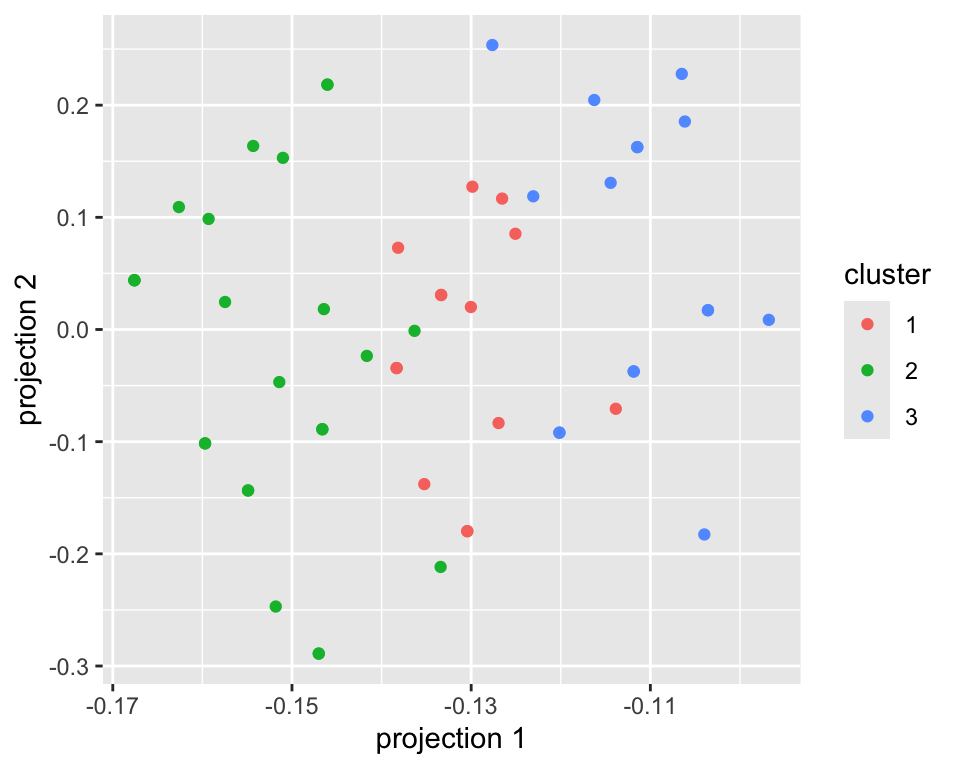
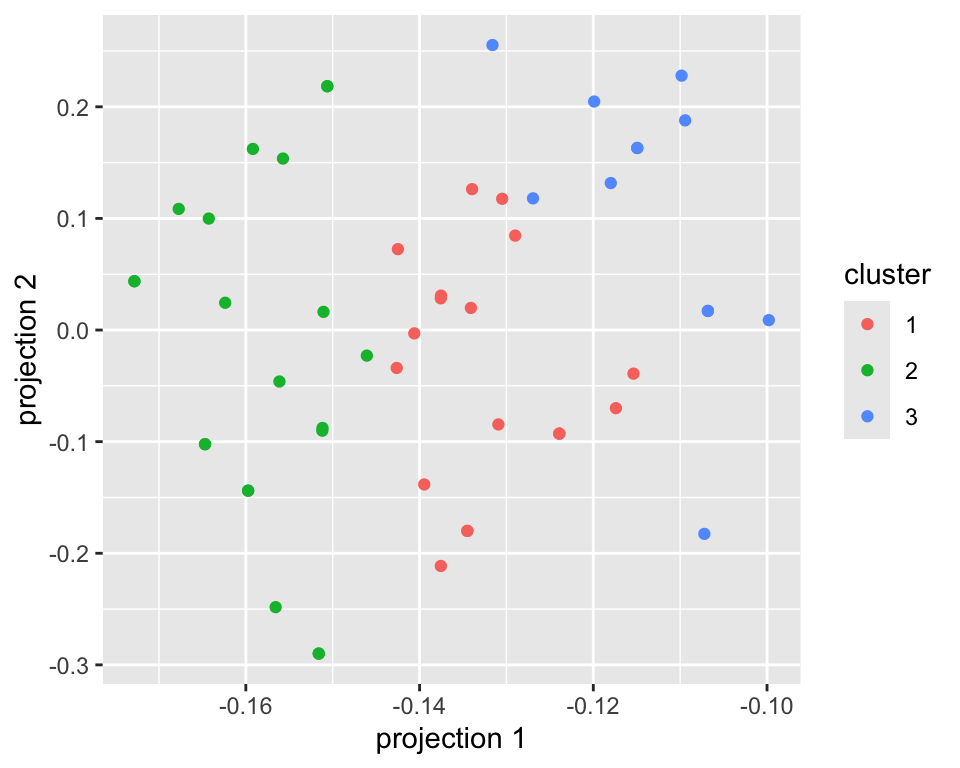
fixes

diff --git a/docs/materials/slides/week2-classdata.html b/docs/materials/slides/week2-classdata.html
@@ -469,21 +469,21 @@ Dr.&nbsp;Coburn
 <tr class="odd">
 <td style="text-align: left;">math.comf</td>
 <td style="text-align: right;">5</td>
-<td style="text-align: right;">4.055556</td>
+<td style="text-align: right;">4.039216</td>
 <td style="text-align: right;">4</td>
 <td style="text-align: right;">3</td>
 </tr>
 <tr class="even">
 <td style="text-align: left;">prog.comf</td>
 <td style="text-align: right;">5</td>
-<td style="text-align: right;">3.870370</td>
+<td style="text-align: right;">3.862745</td>
 <td style="text-align: right;">4</td>
 <td style="text-align: right;">2</td>
 </tr>
 <tr class="odd">
 <td style="text-align: left;">stat.comf</td>
 <td style="text-align: right;">5</td>
-<td style="text-align: right;">4.037037</td>
+<td style="text-align: right;">4.039216</td>
 <td style="text-align: right;">4</td>
 <td style="text-align: right;">2</td>
 </tr>
@@ -511,12 +511,12 @@ Dr.&nbsp;Coburn
 </tr>
 <tr class="even">
 <td style="text-align: left;">math</td>
-<td style="text-align: right;">2.79</td>
+<td style="text-align: right;">2.78</td>
 <td style="text-align: right;">3</td>
 </tr>
 <tr class="odd">
 <td style="text-align: left;">stat</td>
-<td style="text-align: right;">2.84</td>
+<td style="text-align: right;">2.83</td>
 <td style="text-align: right;">3</td>
 </tr>
 </tbody>
@@ -545,15 +545,15 @@ Dr.&nbsp;Coburn
 </tr>
 <tr class="even">
 <td style="text-align: left;">int</td>
-<td style="text-align: right;">25</td>
-<td style="text-align: right;">33</td>
-<td style="text-align: right;">16</td>
+<td style="text-align: right;">24</td>
+<td style="text-align: right;">31</td>
+<td style="text-align: right;">15</td>
 </tr>
 <tr class="odd">
 <td style="text-align: left;">adv</td>
-<td style="text-align: right;">26</td>
-<td style="text-align: right;">20</td>
-<td style="text-align: right;">35</td>
+<td style="text-align: right;">24</td>
+<td style="text-align: right;">19</td>
+<td style="text-align: right;">33</td>
 </tr>
 </tbody>
 </table>
@@ -585,19 +585,19 @@ Dr.&nbsp;Coburn
 <tr class="odd">
 <td style="text-align: left;">[1,2.33]</td>
 <td style="text-align: right;">6</td>
-<td style="text-align: right;">15</td>
+<td style="text-align: right;">14</td>
 <td style="text-align: right;">2</td>
 </tr>
 <tr class="even">
 <td style="text-align: left;">(2.33,2.67]</td>
 <td style="text-align: right;">5</td>
-<td style="text-align: right;">13</td>
+<td style="text-align: right;">12</td>
 <td style="text-align: right;">1</td>
 </tr>
 <tr class="odd">
 <td style="text-align: left;">(2.67,3]</td>
-<td style="text-align: right;">3</td>
-<td style="text-align: right;">9</td>
+<td style="text-align: right;">2</td>
+<td style="text-align: right;">7</td>
 <td style="text-align: right;">0</td>
 </tr>
 </tbody>
@@ -621,24 +621,24 @@ Dr.&nbsp;Coburn
 <tbody>
 <tr class="odd">
 <td style="text-align: left;">[1,2.33]</td>
-<td style="text-align: right;">0.261</td>
-<td style="text-align: right;">0.652</td>
-<td style="text-align: right;">0.087</td>
-<td style="text-align: right;">23</td>
+<td style="text-align: right;">0.273</td>
+<td style="text-align: right;">0.636</td>
+<td style="text-align: right;">0.091</td>
+<td style="text-align: right;">22</td>
 </tr>
 <tr class="even">
 <td style="text-align: left;">(2.33,2.67]</td>
-<td style="text-align: right;">0.263</td>
-<td style="text-align: right;">0.684</td>
-<td style="text-align: right;">0.053</td>
-<td style="text-align: right;">19</td>
+<td style="text-align: right;">0.278</td>
+<td style="text-align: right;">0.667</td>
+<td style="text-align: right;">0.056</td>
+<td style="text-align: right;">18</td>
 </tr>
 <tr class="odd">
 <td style="text-align: left;">(2.67,3]</td>
-<td style="text-align: right;">0.250</td>
-<td style="text-align: right;">0.750</td>
+<td style="text-align: right;">0.222</td>
+<td style="text-align: right;">0.778</td>
 <td style="text-align: right;">0.000</td>
-<td style="text-align: right;">12</td>
+<td style="text-align: right;">9</td>
 </tr>
 </tbody>
 </table>
@@ -689,7 +689,7 @@ Dr.&nbsp;Coburn
 <td style="text-align: right;">2</td>
 <td style="text-align: right;">2</td>
 <td style="text-align: right;">2</td>
-<td style="text-align: right;">11</td>
+<td style="text-align: right;">10</td>
 </tr>
 <tr class="odd">
 <td style="text-align: right;">2</td>
@@ -707,7 +707,7 @@ Dr.&nbsp;Coburn
 <td style="text-align: right;">2</td>
 <td style="text-align: right;">3</td>
 <td style="text-align: right;">3</td>
-<td style="text-align: right;">12</td>
+<td style="text-align: right;">11</td>
 </tr>
 <tr class="even">
 <td style="text-align: right;">3</td>
@@ -725,7 +725,7 @@ Dr.&nbsp;Coburn
 <td style="text-align: right;">3</td>
 <td style="text-align: right;">3</td>
 <td style="text-align: right;">3</td>
-<td style="text-align: right;">12</td>
+<td style="text-align: right;">11</td>
 </tr>
 </tbody>
 </table>
@@ -767,7 +767,7 @@ Dr.&nbsp;Coburn
 <td style="text-align: right;">3</td>
 <td style="text-align: right;">4</td>
 <td style="text-align: right;">3</td>
-<td style="text-align: right;">2</td>
+<td style="text-align: right;">1</td>
 </tr>
 <tr class="odd">
 <td style="text-align: right;">3</td>
@@ -821,7 +821,7 @@ Dr.&nbsp;Coburn
 <td style="text-align: right;">4</td>
 <td style="text-align: right;">4</td>
 <td style="text-align: right;">4</td>
-<td style="text-align: right;">5</td>
+<td style="text-align: right;">4</td>
 </tr>
 <tr class="even">
 <td style="text-align: right;">4</td>
@@ -869,7 +869,7 @@ Dr.&nbsp;Coburn
 <td style="text-align: right;">5</td>
 <td style="text-align: right;">5</td>
 <td style="text-align: right;">5</td>
-<td style="text-align: right;">5</td>
+<td style="text-align: right;">4</td>
 </tr>
 </tbody>
 </table>
@@ -913,33 +913,33 @@ Dr.&nbsp;Coburn
 </thead>
 <tbody>
 <tr class="odd">
-<td style="text-align: right;">2.357</td>
-<td style="text-align: right;">2.643</td>
-<td style="text-align: right;">3.000</td>
-<td style="text-align: right;">3.643</td>
+<td style="text-align: right;">2.278</td>
+<td style="text-align: right;">2.500</td>
+<td style="text-align: right;">2.722</td>
 <td style="text-align: right;">3.500</td>
-<td style="text-align: right;">3.929</td>
-<td style="text-align: right;">14</td>
+<td style="text-align: right;">3.611</td>
+<td style="text-align: right;">4.000</td>
+<td style="text-align: right;">18</td>
 <td style="text-align: left;">1</td>
 </tr>
 <tr class="even">
-<td style="text-align: right;">2.583</td>
-<td style="text-align: right;">2.708</td>
-<td style="text-align: right;">2.875</td>
-<td style="text-align: right;">4.250</td>
-<td style="text-align: right;">4.708</td>
+<td style="text-align: right;">2.619</td>
+<td style="text-align: right;">2.714</td>
+<td style="text-align: right;">2.952</td>
+<td style="text-align: right;">4.286</td>
+<td style="text-align: right;">4.714</td>
 <td style="text-align: right;">4.667</td>
-<td style="text-align: right;">24</td>
+<td style="text-align: right;">21</td>
 <td style="text-align: left;">2</td>
 </tr>
 <tr class="odd">
 <td style="text-align: right;">2.000</td>
-<td style="text-align: right;">1.812</td>
-<td style="text-align: right;">1.812</td>
+<td style="text-align: right;">1.750</td>
+<td style="text-align: right;">1.750</td>
+<td style="text-align: right;">3.667</td>
 <td style="text-align: right;">3.500</td>
-<td style="text-align: right;">3.562</td>
-<td style="text-align: right;">3.188</td>
-<td style="text-align: right;">16</td>
+<td style="text-align: right;">3.000</td>
+<td style="text-align: right;">12</td>
 <td style="text-align: left;">3</td>
 </tr>
 </tbody>
@@ -964,9 +964,9 @@ Dr.&nbsp;Coburn
 <div id="tabset-5-4">
 <p>Based on the centers:</p>
 <ul>
-<li class="fragment"><p>Cluster 1: advanced proficiency, very comfortable</p></li>
-<li class="fragment"><p>Cluster 2: intermediate, strong math/stat background</p></li>
-<li class="fragment"><p>Cluster 3: intermediate, weaker programming comfort</p></li>
+<li class="fragment"><p>Cluster 1: intermediate proficiency, mostly comfortable</p></li>
+<li class="fragment"><p>Cluster 2: high proficiency, very comfortable</p></li>
+<li class="fragment"><p>Cluster 3: building proficiency, less comfortable</p></li>
 </ul>
 </div>
 </div>

diff --git a/docs/materials/course-materials.html b/docs/materials/course-materials.html
@@ -265,8 +265,12 @@ div.csl-indent {
 <li><p><strong><em>Section meeting:</em></strong> tidyverse basics <a href="../materials/labs/lab2-tidyverse/lab2-tidyverse.html">[activity</a>]</p></li>
 </ul>
 <!-- -   ***Thursday meeting:*** planning group work for analysis of survey data \[[slides](slides/week2-workshop.qmd)\] -->
-<!-- -   ***Assignments:*** -->
-<!--     -   first team assignment due Friday, October 14, 11:59 PM PST \[[accept via GH classroom here](https://classroom.github.com/a/d-4iOFtd)\] -->
+<ul>
+<li><p><strong><em>Assignments:</em></strong></p>
+<ul>
+<li>first team assignment due Sunday, October 20, 11:59 PM PST [<a href="https://classroom.github.com/a/iG-05GhY">accept via GH classroom here</a>]</li>
+</ul></li>
+</ul>
 <!-- ## Module 1: biomarker identification -->
 <!-- *Objectives: introduce variable selection, classification, and multiple testing problems; discuss classification accuracy metrics and data partitioning; fit logistic regression and random forest classifiers in R; learn to implement multiple testing corrections for FDR control (Benjamini-Hochberg and Benjamini-Yekutieli); discuss selection via penalized estimation. Data from @hewitson2021blood .* -->
 <!-- ### Week 3 -->
